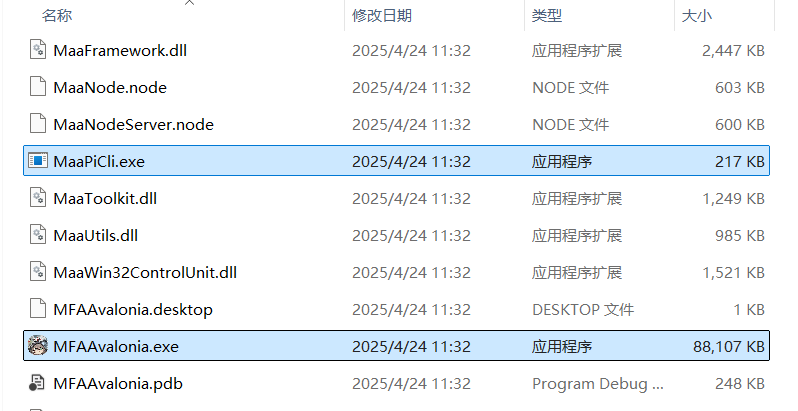
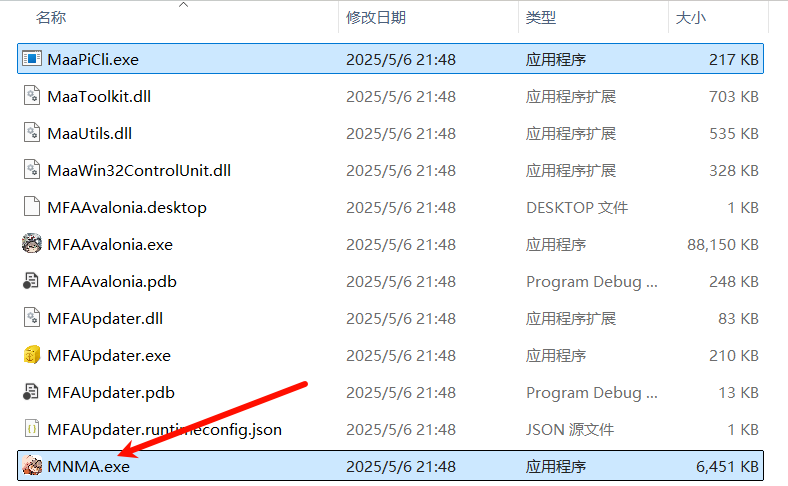
2025.5.6.22.23

diff --git a/docs/users/init.md b/docs/users/init.md
@@ -19,16 +19,16 @@
 其中：
 
 - `MaaPiCli.exe` 为控制台应用
-- `MFAAvalonia.exe` 为 GUI 应用
+- `MNMA.exe` 为 GUI 应用
 
 如果您不是特别钟情于控制台应用，请直接双击运行 GUI。
 
-::: details 为什么 GUI 的图标是牛牛？
-MFAAvalonia 是 MaaFw 系列的 GUI 开源项目，因为 MaaFw 最早是由方舟的 Maa 演化而来，因此作者选择类似于 Maa 的牛牛图标作为 icon。
+::: details 为什么任务栏的图标是牛牛？
+MNMA 使用 MFAAvalonia 作为 GUI。MFAAvalonia 是 MaaFw 系列的 GUI 开源项目，因为 MaaFw 最早是由方舟的 Maa 演化而来，因此 MFAAvalonia 的作者选择类似于 Maa 的牛牛图标作为 icon，也因此牛牛图标会被保留。
 :::
 
 ::: tip
-您可以右键 `MFAAvalonia.exe`，并依次选择`(->win11:显示更多选项)`->`发送到`->`桌面快捷方式`在桌面创建一个快捷方式，方便以后在桌面直接启动。
+您可以右键 `MNMA.exe`，并依次选择`(->win11:显示更多选项)`->`发送到`->`桌面快捷方式`在桌面创建一个快捷方式，方便以后在桌面直接启动。
 :::
 
 如果在双击应用后弹出报错，请参考 [问题排查-程序运行类](../users/errors.md#程序运行类)

diff --git a/docs/users/errors.md b/docs/users/errors.md
@@ -5,7 +5,7 @@
 如果您在使用 MNMA 时遇到了问题，请先按如下步骤进行自检：
 
 1. 确保**模拟器使用 mumu12**，模拟器**设置开启本地 ADB**，**分辨率比例为 16:9**
-2. 确保电脑**没有启用火绒或电脑管家**等防火墙（360 已适配）
+2. 确保电脑**没有启用火绒或电脑管家**等防火墙，或已将 MNMA 添加至所有杀毒软件的信任文件中
 3. 确保没有其他游戏脚本类软件在操作模拟器
 4. 尝试使用**管理员权**限打开 MNMA
 
@@ -81,7 +81,7 @@ pip install maafw -i https://pypi.tuna.tsinghua.edu.cn/simple
 
 如果您的模拟器没有此选项，请在 mumu12 官网重新下载最新版模拟器。
 
-### 缺少 xxx.dll/运行库/目标计算机积极拒绝
+### 缺少 xxx.dll/运行库
 
 对于 Windows 需要在运行前安装运行库。
 
@@ -98,3 +98,7 @@ winget install Microsoft.VCRedist.2017.x64 Microsoft.DotNet.DesktopRuntime.8
 ```
 
 在安装时，依次点下一步即可，建议不要随意更改环境运行库的安装路径。
+
+### 目标计算机积极拒绝
+
+情况很多，在群里问吧（

diff --git a/docs/users/start.md b/docs/users/start.md
@@ -8,6 +8,10 @@ MNMA 是一款基于 [MaaFramework](https://github.com/MaaXYZ/MaaFramework) 与 
 
 如果在使用过程中遇到了问题、有更好的想法，或是单纯想要聊天吹水，欢迎加入 MNMA 交流群：[QQ 群（993245868）](http://qm.qq.com/cgi-bin/qm/qr?_wv=1027&k=VMC132QhbMDLi5U62MlDRvtCMj9WOXRr&authKey=yJNKO4sQ%2BBFHpBCLSSEvVOAyz%2FPjknNSl70W3ugg2%2BpELnKmEiHamj1emJMWcLwQ&noverify=0&group_code=993245868)
 
+::: tip 注意
+**交流群内请遵守法律法规，也不要无故打扰其他群友，询问问题请在查阅本文档后礼貌提问。**
+:::
+
 ## 声明
 
 本软件开源、免费，仅供学习交流使用。若您遇到商家使用本软件进行代练并收费，可能是设备与时间等费用，产生的费用、问题及后果与本软件无关。
